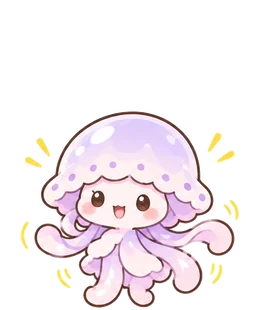
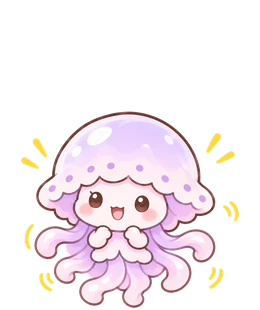
なかま：ゆらり の あさ・ひる・ねむい・しょんぼり など 7まい の絵を直す
こども の あさ・ひる1・ひる2・ねむい、おとな の しょんぼり・あさ、わかもの の しょんぼり を 差しかえ。
NK_IMG_VER を 16 に 上げる。

diff --git a/index.html b/index.html
@@ -3630,7 +3630,7 @@ body.course .levels.nrange .lv{padding:3px 2px;font-size:12px}
   const nkSp = id => NK_LIST.find(x=>x.id===id) || NK_LIST[0];
   // ちいさい だんかいは すこし おおきく みせる（そだって いる かんじは のこす）
   const NK_SCALE = [1.9, 1.5, 1.15, 1, 1, 1];
-  const NK_IMG_VER = "15";   // なかまの え を さしかえたら ばんごうを あげる（ふるい え が のこらない ように）
+  const NK_IMG_VER = "16";   // なかまの え を さしかえたら ばんごうを あげる（ふるい え が のこらない ように）
   const nkImgSrc = (id, stage, mood) => `nakama/${id}/${NK_STAGES[stage]}_${stage===0 && mood==="s" ? "n" : mood}.webp?v=${NK_IMG_VER}`;
   const dkDate = k => { const [y,m,d]=k.split("-").map(Number); return new Date(y, m-1, d); };
   const dkAdd = (k, n) => { const d=dkDate(k); d.setDate(d.getDate()+n); return dayKey(d); };

diff --git a/CHANGELOG.md b/CHANGELOG.md
@@ -12,6 +12,7 @@
 ## 2026-11-05
 
 ### 修正（なかま）
+- **01:07** ゆらり の絵を さらに 直しました。こども の あさ・ひる1・ひる2・ねむい は、手が 3本に 見えたり 1本しか なかったり したのを、手が 2本 ある 絵に。おとな の しょんぼり・あさ と、わかもの の しょんぼり は、手を わかりやすく し、しょんぼり は 足を めだたない ふわふわの あし に。
 - **00:54** ゆらり（こども）の絵を直しました。ふつう・よろこび は、手が かたほう だけに 2つ あるように 見えていたのを、むねの まえに 手が 2本 ある 絵に。しょんぼり は、からだの したに 足が あったのを、ほかの 絵と おなじ ふわふわの あし に。
 
 ## 2026-11-04
